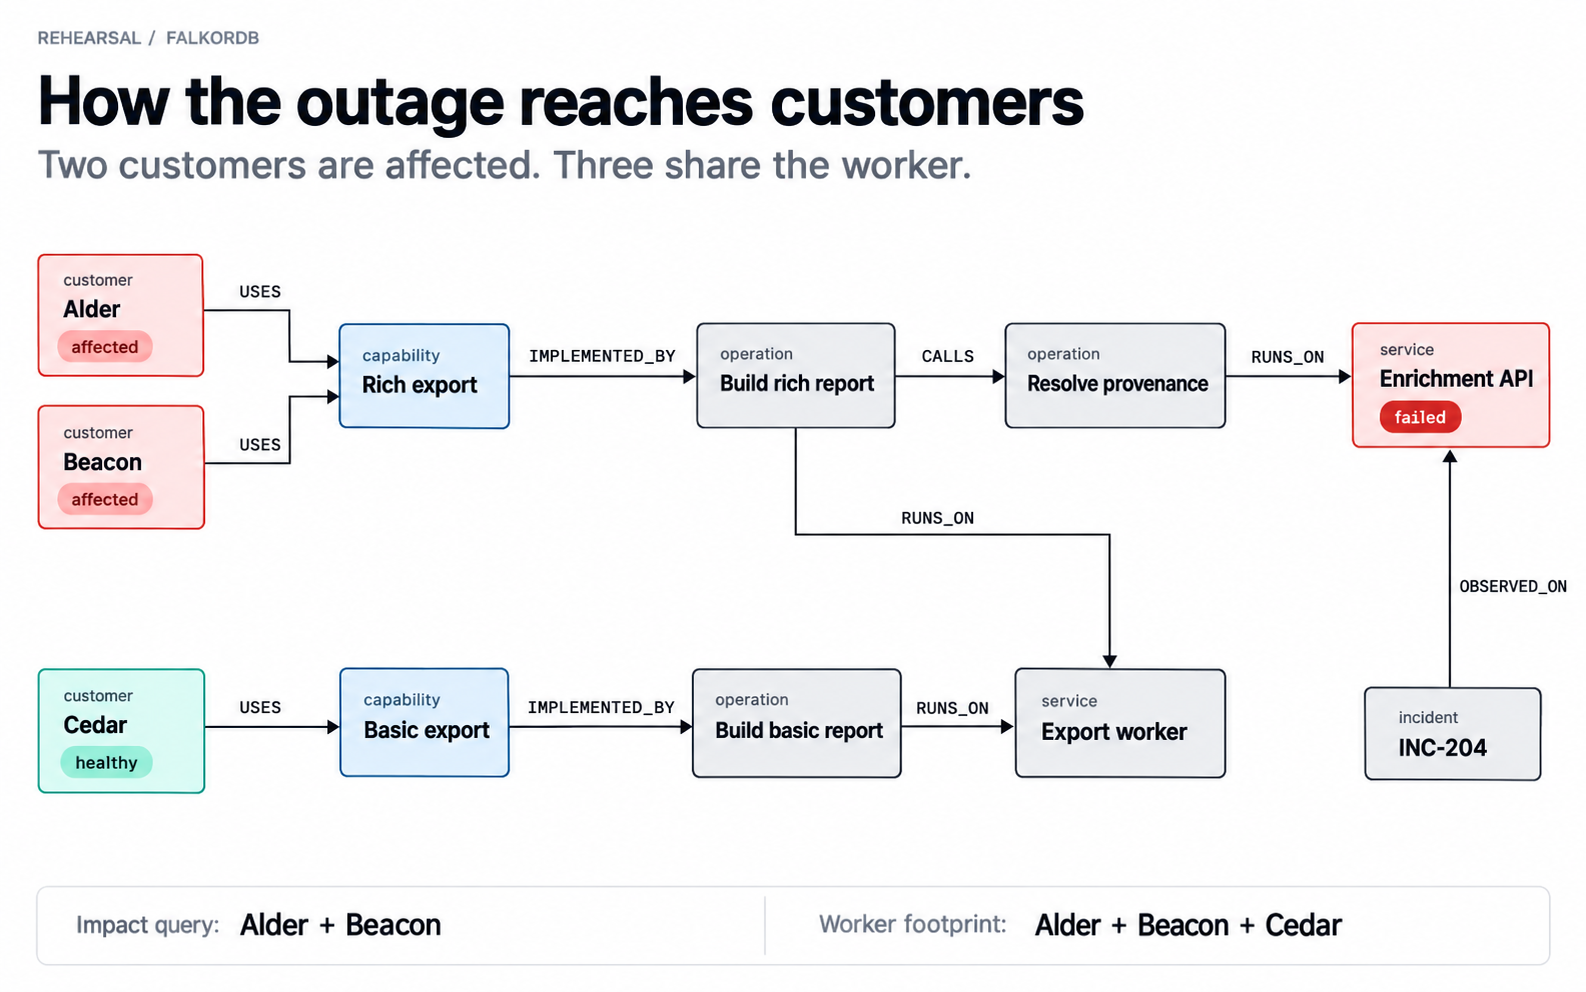
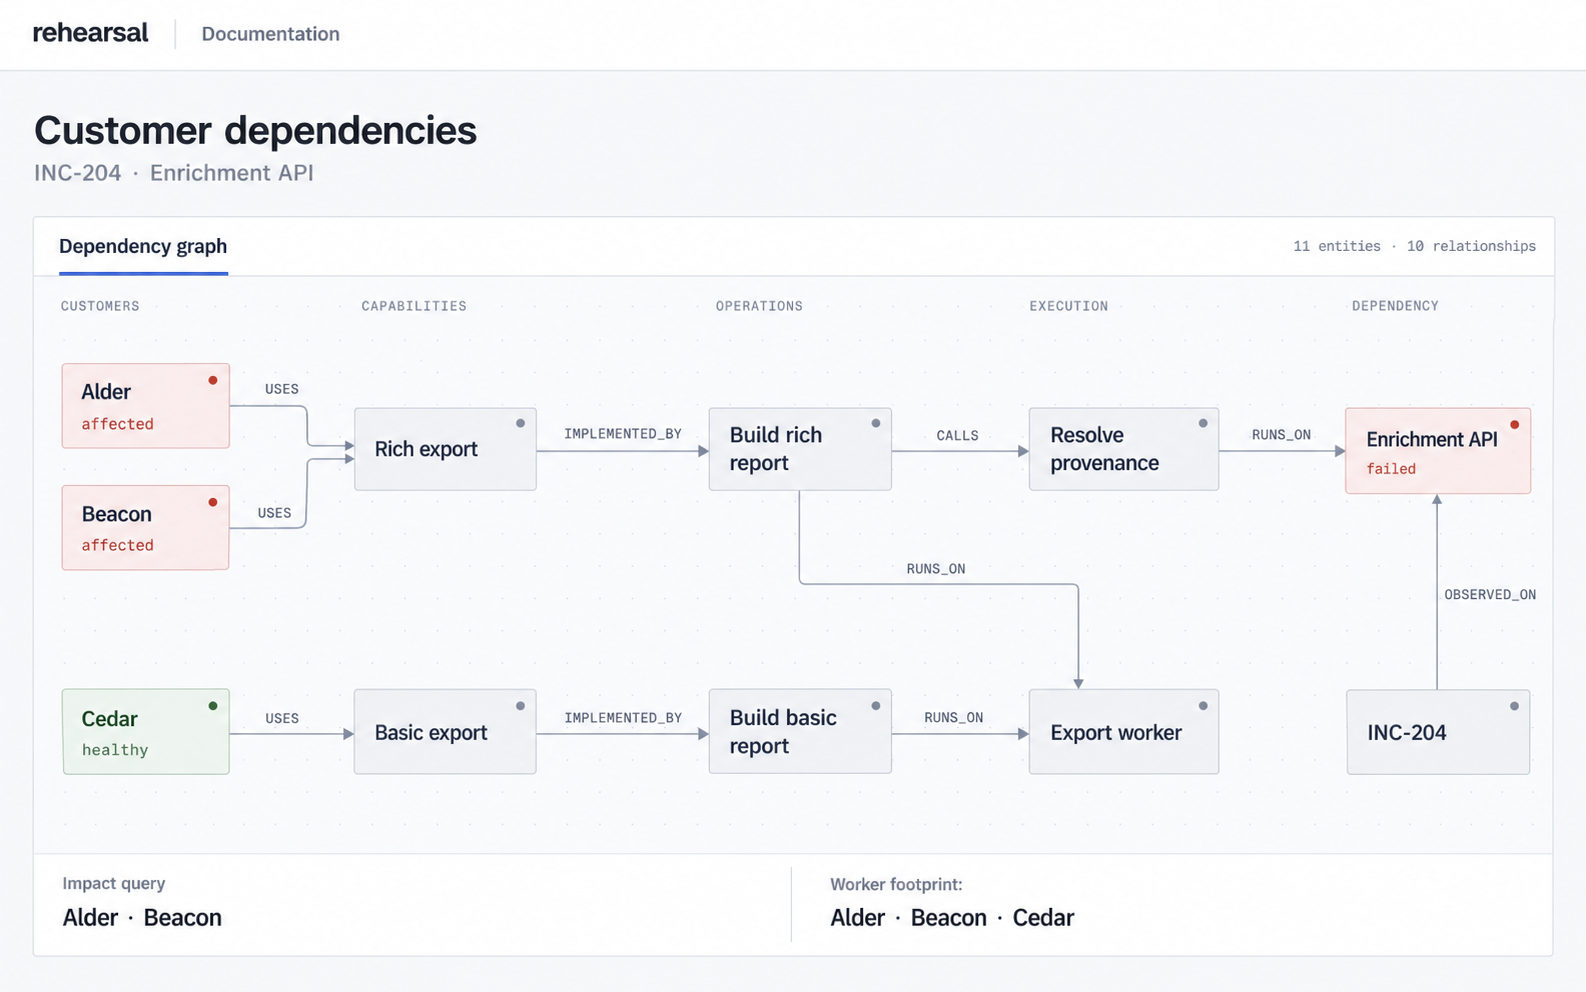
docs: match diagram styling to the app workbench

diff --git a/docs/diagrams/generation-prompts.md b/docs/diagrams/generation-prompts.md
@@ -1,6 +1,6 @@
 # Diagram generation prompts
 
-These README assets were generated with the built-in `image_gen` tool and checked against the implementation. Keep the stored relationship names, arrow directions, and approval gates aligned with the code when regenerating them.
+The README diagrams were restyled with the built-in `image_gen` tool using the [workbench screenshot](../screenshots/workbench.png) as the visual reference. The palette, typography, node treatment, and spacing follow the app's [studio styles](../../web/src/studio.css) and [base styles](../../web/src/styles.css).
 
 | Asset | Source of truth |
 | --- | --- |
@@ -8,154 +8,134 @@ These README assets were generated with the built-in `image_gen` tool and checke
 | [Evidence graph](evidence-graph.png) | [Claim/source creation, revision updates, and decision writes](../../server/graph.py) |
 | [Repair algorithm](repair-algorithm.png) | [Recommendation and approval](../../server/engine.py), [trial checks](../../server/workload.py), and [transactional application](../../server/storage.py) |
 
-The dependency graph shows the incident-related subset of entities. The evidence graph is a schema across source revisions; it does not imply that superseded evidence supplies current facts. The algorithm's candidate outcomes use the initial 720-second cache and 900-second policy fixture; later trials use the current context and clock.
+Each edit supplied the workbench screenshot as image 1 and the previous version of the corresponding diagram as image 2. Those content references are preserved in commit `d535463`. The full prompt for each asset is the shared style brief followed by its asset-specific section below. Outputs were copied into this directory; README image paths remain unchanged.
 
-## Dependency graph
+The dependency graph shows the incident-related subset of entities. The evidence graph is a schema across source revisions; superseded evidence does not supply current facts. The algorithm's candidate outcomes use the initial 720-second cache and 900-second policy fixture. Labels, arrow directions, and approval gates were checked against the implementation.
+
+## Shared style brief
 
 ```text
-Use case: infographic-diagram.
-Asset: an accurate technical diagram embedded in the GitHub README of Rehearsal, an incident-repair simulator. Make a polished, extremely readable editorial engineering diagram, not a marketing poster. Wide landscape canvas about 2400x1500. Pure white background, generous white space, precise thin orthogonal arrow connectors, restrained rounded rectangles, no shadows, no gradients, no texture, no decorative illustrations, no 3D. Near-black large sans-serif type similar to Geist, monospaced relationship labels. Dark navy-blue for graph/context, muted teal for healthy/passing, muted coral for failures, neutral light gray for generic nodes. Body labels must be comfortably readable when displayed at 900px width. Exact spelling and exact arrow endpoints matter more than decoration. Give the heading modest size; spend most of the canvas on the diagram. Each diagram has a tiny top-left "REHEARSAL / FALKORDB" eyebrow. No extra invented text or relationships.
-Title verbatim: "How the outage reaches customers"
-Subtitle verbatim: "Two customers are affected. Three share the worker."
-Draw exactly these eleven entity boxes and ten directed labeled relationships. The arrows are stored graph edges, not an order-of-execution flow. Names must appear exactly; kind labels can be small above the names.
-Nodes:
-Alder (customer, affected), Beacon (customer, affected), Cedar (customer, healthy), Rich export (capability), Basic export (capability), Build rich report (operation), Build basic report (operation), Resolve provenance (operation), Export worker (service), Enrichment API (service, failed), INC-204 (incident).
-Edges, source -> target, exact relationship label:
-Alder -> Rich export: USES
-Beacon -> Rich export: USES
-Cedar -> Basic export: USES
-Rich export -> Build rich report: IMPLEMENTED_BY
-Basic export -> Build basic report: IMPLEMENTED_BY
-Build rich report -> Resolve provenance: CALLS
-Build rich report -> Export worker: RUNS_ON
-Build basic report -> Export worker: RUNS_ON
-Resolve provenance -> Enrichment API: RUNS_ON
-INC-204 -> Enrichment API: OBSERVED_ON
+Use case: style-transfer.
+Task: redesign the supplied documentation diagram so it belongs visually to the Rehearsal web application.
+Input Image 1 is the STRICT VISUAL STYLE REFERENCE: the actual Rehearsal workbench screenshot. Match its refined, understated, crisp, clean software-interface aesthetic.
+Input Image 2 is the CONTENT REFERENCE / EDIT TARGET: the existing diagram. Preserve its technical meaning and exact named relationships, but completely replace its graphic styling. Do NOT preserve the old diagram's typography, huge headline, strong fills, chunky arrows or rounded blocks. The screenshot is the visual authority.
 
-Layout for clarity: five columns. Upper main row Rich export -> Build rich report -> Resolve provenance -> Enrichment API, with Alder and Beacon stacked at the left and each pointing right into Rich export. Lower row Cedar -> Basic export -> Build basic report -> Export worker; INC-204 below Enrichment API, pointing up into that API. The additional Build rich report -> Export worker connector goes down and right through the open gap between rows; keep it distinct from CALLS. Each edge has its own clear arrowhead at the target and its relationship printed once. All rectangles separated with generous gaps for labels. Use coral only for the failed Enrichment API and subtle affected markers on Alder and Beacon; Cedar teal. Worker neutral to show the healthy customer shares it.
-Bottom annotation strip: "Impact query: Alder + Beacon" and "Worker footprint: Alder + Beacon + Cedar".
-Do not add a direct connection from customer to service. Do not add an edge between Export worker and Enrichment API. Retain every one of the ten specified arrows.
+Specific visual system taken from the app CSS:
+- Background #f7f8fa; white #ffffff panel headers; graph canvas #fafbfd.
+- Main ink #22252d; secondary #656a75. Geist-like sans-serif, medium 500 / semibold 600. Use Geist Mono-like typography for relationship names, small indices, values and metadata.
+- Hairline borders #e0e3e8, node borders #d4dae2, connectors #bec7d6. Very thin 1–1.5 px visual strokes with small precise arrow tips.
+- Default graph nodes #f1f3f6 with text #425168. Sharp 2–3 px corners.
+- Error state: muted background #f7edeb, border #dfc8c2, ink #8b4339.
+- Healthy state: muted background #edf3ef, border #c9d8cd, ink #315b44.
+- Blue #3156cf appears only as a tiny active-tab underline or narrow accent rule, never as a large filled panel.
+- Small status dots, quiet monospaced labels. Large flat white panels divided by subtle lines. Extremely faint dotted graph grid like the screenshot, beneath the node region only.
+- NO gradients anywhere, NO glow, NO texture/grain, NO shadows, NO dark filled headers, NO bold blue/red/green banners, NO bright or saturated node fills, NO pill badges, NO giant step numbers, NO marketing-poster type.
+- Compact understated page title, comfortable white space, exact visual alignment. The node labels must be substantially larger than tiny screenshot labels so they read well at 900 px README width: about 24px at 1600px source width; relationship labels about 20–22px.
+- Do not recreate the screenshot's navigation buttons, personal details, sidebar, or JSON output. Create a standalone DOCUMENTATION DIAGRAM styled using the same design system. It must not look like a screenshot claiming to show a real app screen.
+- All text is crisp. All geometry is flat, precise and aligned.
+At the top use a restrained white header strip with a small lowercase "rehearsal" wordmark, a thin divider, and "Documentation" in muted text. Beneath it place the compact diagram title and its one-line subtitle, then the main bordered panel. Headline no larger than twice node-label size. No giant eyebrow or slogan.
 ```
 
-## Evidence graph
+## dependency-graph.png
 
 ```text
-Use case: infographic-diagram.
-Asset: an accurate technical diagram embedded in the GitHub README of Rehearsal, an incident-repair simulator. Make a polished, extremely readable editorial engineering diagram, not a marketing poster. Wide landscape canvas about 2400x1500. Pure white background, generous white space, precise thin orthogonal arrow connectors, restrained rounded rectangles, no shadows, no gradients, no texture, no decorative illustrations, no 3D. Near-black large sans-serif type similar to Geist, monospaced relationship labels. Dark navy-blue for graph/context, muted teal for healthy/passing, muted coral for failures, neutral light gray for generic nodes. Body labels must be comfortably readable when displayed at 900px width. Exact spelling and exact arrow endpoints matter more than decoration. Give the heading modest size; spend most of the canvas on the diagram. Each diagram has a tiny top-left "REHEARSAL / FALKORDB" eyebrow. No extra invented text or relationships.
-Title verbatim: "From reviewed facts to an accountable decision"
-Subtitle verbatim: "Facts retain their sources. Approved repairs retain their evidence."
-Draw a schema diagram with exactly seven nodes, using the exact stored relationship names on directed connectors. Use navy-blue headers on evidence nodes and muted teal on the approved-decision path. Upper evidence row: Claim on left, Source near middle, New source revision on right. Lower decision row: Decision on left, Task in middle-left, Person in middle-right, Team on right. Arrange Source above the gap between Decision and Task so its arrows remain uncrossed. Person and Team are Entity nodes: small secondary labels "Entity · person" and "Entity · team".
-
-Exact nodes, with optional specified smaller detail:
-Claim, detail "subject · predicate · value"
-Source, detail "document / ticket / chat"
-New source revision, detail "Source"
-Decision, detail "approved repair"
-Task, detail "follow-up"
-Person, detail "Entity · person"
-Team, detail "Entity · team"
-
-Exactly six directed edges:
-Claim -> Source, label "SUPPORTED_BY"
-New source revision -> Source, label "SUPERSEDES" (arrow must point LEFT from newer to older Source)
-Decision -> Source, label "CITES" (upward diagonal or orthogonal)
-Decision -> Task, label "CREATED"
-Task -> Person, label "ASSIGNED_TO"
-Person -> Team, label "MEMBER_OF"
-
-Use large clear labels and whitespace. Nothing may obscure arrowheads or overlap relationships.
-Below the graph place two discrete, unconnected explanatory notes, separated by a thin rule from the graph (not nodes and no connectors):
-"Ownership is a claim" with next line 'worker / owner / "nia"' and next line "The subject refers to an entity ID."
-"Context metadata" with next line "Reviewed topology hash + revision" and next line "Validated before approval."
-These are explanations; do not invent an OWNS edge or connect the notes into the graph. This is a schema showing relationships across revisions; do not label Source as active or current.
+Canvas: landscape 1600 × 1000 or similar aspect ratio.
+Title: "Customer dependencies"
+Subtitle: "INC-204 · Enrichment API"
+Panel header: "Dependency graph" with tiny blue active underline; right metadata "11 entities · 10 relationships".
+Preserve all eleven named entity boxes and ALL TEN labeled directed edges from Image 2:
+Alder -> Rich export [USES]
+Beacon -> Rich export [USES]
+Cedar -> Basic export [USES]
+Rich export -> Build rich report [IMPLEMENTED_BY]
+Basic export -> Build basic report [IMPLEMENTED_BY]
+Build rich report -> Resolve provenance [CALLS]
+Build rich report -> Export worker [RUNS_ON]
+Build basic report -> Export worker [RUNS_ON]
+Resolve provenance -> Enrichment API [RUNS_ON]
+INC-204 -> Enrichment API [OBSERVED_ON]
+Keep the readable five-column arrangement from Image 2. Show Alder and Beacon stacked in upper left, sharing Rich export; Cedar lower left through Basic export and Build basic report. Build rich report and Build basic report BOTH point into the shared Export worker. INC-204 beneath Enrichment API points UP into that API. Each arrow points to its exact target, labels sit in clear whitespace.
+Use subtle small column labels like the screenshot: "CUSTOMERS", "CAPABILITIES", "OPERATIONS", "EXECUTION", "DEPENDENCY". These are layout labels, not extra nodes.
+Color Alder, Beacon and Enrichment API with the app's muted failing palette, with tiny dots and small state words "affected", "affected", "failed". Cedar uses muted healthy palette with small state word "healthy". All other nodes neutral gray. No status pills.
+Quiet divided footer strip:
+"Impact query" / "Alder · Beacon"
+"Worker footprint" / "Alder · Beacon · Cedar".
+Wrap long node names onto two balanced lines if needed. Do not sacrifice labels, arrowheads or direction. No direct Export worker→Enrichment API edge. All content must fit with comfortable margins.
 ```
 
-## Repair algorithm — initial composition
+## evidence-graph.png
 
 ```text
-Use case: infographic-diagram.
-Asset: an accurate technical diagram embedded in the GitHub README of Rehearsal, an incident-repair simulator. Make a polished, extremely readable editorial engineering diagram, not a marketing poster. Wide landscape canvas about 2400x1500. Pure white background, generous white space, precise thin orthogonal arrow connectors, restrained rounded rectangles, no shadows, no gradients, no texture, no decorative illustrations, no 3D. Near-black large sans-serif type similar to Geist, monospaced relationship labels. Dark navy-blue for graph/context, muted teal for healthy/passing, muted coral for failures, neutral light gray for generic nodes. Body labels must be comfortably readable when displayed at 900px width. Exact spelling and exact arrow endpoints matter more than decoration. Give the heading modest size; spend most of the canvas on the diagram. Each diagram has a tiny top-left "REHEARSAL / FALKORDB" eyebrow. No extra invented text or relationships.
-Title verbatim: "A repair must earn approval"
-Subtitle verbatim: "Graph facts → isolated trials → owner approval → durable receipt"
-Create an elegant, precise numbered flowchart, about 2000x1800 or a landscape 2400x1900 canvas, readable without magnification. Use large type and a clean vertical main flow, with three equal candidate cards in a horizontal row and a narrow right margin for two stop branches. No decorative icons. Use exact short copy below, don't invent extra words.
-
-1. Blue block "Resolve FalkorDB context"
-   detail "Affected paths · worker footprint · requirements · owner"
-   Arrow down.
-2. Section "Test all three on isolated service copies"
-   Three equal cards in one row, each headed with candidate:
-   "Rollback" / "Schema mismatch" / coral "FAIL"
-   "Bypass" / "HTTP 200; required provenance missing" / coral "FAIL"
-   "Verified cache" / "Data + provenance + freshness preserved" / teal "PASS"
-   A small caption under the row says "Initial fixture: cache age 720 s; policy limit 900 s".
-   All three converge via connectors into:
-3. A gate "Every required check passes?"
-   Directly under it, compact helper text "Availability · data integrity · provenance · schema · unaffected customers · cache policy".
-   Arrow from gate to right labeled "No eligible repair" leading to a coral stop box "Abstain / escalate".
-   Arrow down labeled "Passing repair" goes to:
-4. Blue block "Create a bound proposal"
-   detail "Context + runtime + trial hashes · current owner · 2-minute expiry".
-   Arrow down to:
-5. A distinct navy-outlined gate "Owner approves; server revalidates"
-   detail "Read graph again · rerun selected trial · compare output hashes".
-   Rightward arrow labeled "Stale or failed" to coral stop box "Block; rehearse again".
-   Downward arrow labeled "Valid" to:
-6. Teal block "Apply once + save receipt"
-   detail "Atomic SQLite transaction · retries reuse the receipt".
-   Arrow down to final slim blue block "Sync decision citations + assigned task to FalkorDB"
-   detail "Idempotent graph write; retry if interrupted".
-
-Every dependency must be clear. This is not autonomous deployment: owner approval is mandatory and visibly gates applying the repair. Do not show bypass as passing just because HTTP is 200. The condition is candidate eligibility; at least one must pass, not all three candidates. No arrow from a failure stop box to apply. Give the complex gate labels enough room, no tiny type, no cramped line wraps.
+Canvas: landscape 1600 × 1000 or similar aspect ratio.
+Title: "Evidence and ownership"
+Subtitle: "Reviewed facts, source revisions and approved repairs"
+Panel header: "Evidence graph" with tiny blue active underline; right metadata "7 nodes · 6 relationships".
+Keep the exact seven nodes and six arrows from Image 2, but render EVERY node as a subtle light gray app graph node. No colored header bands. Use normal-sized medium-weight names and smaller muted details within the same flat rectangle:
+Claim / "subject · predicate · value"
+Source / "document / ticket / chat"
+New source revision / "Source"
+Decision / "approved repair"
+Task / "follow-up"
+Person / "Entity · person"
+Team / "Entity · team"
+Exact six directed relationships:
+Claim -> Source [SUPPORTED_BY]
+New source revision -> Source [SUPERSEDES], points LEFT from newer source to older source.
+Decision -> Source [CITES]
+Decision -> Task [CREATED]
+Task -> Person [ASSIGNED_TO]
+Person -> Team [MEMBER_OF]
+Preserve the spacious two-row layout: Claim, Source, New source revision in upper row; Decision, Task, Person, Team in lower row. A clear CITES connector rises from Decision to Source. Gentle curved connector or clean orthogonal routing like the app; arrow tips small, visible, precise. Do not omit or reverse any edge.
+Use only tiny muted green status dots on Decision and Task; keep their node background neutral. No filled green blocks.
+Bottom annotation strip beneath a thin divider, two columns with a subtle vertical rule:
+"Ownership is a claim"
+'worker / owner / "nia"'
+"Subject refers to an entity ID."
+and
+"Context metadata"
+"Reviewed topology hash + revision"
+"Validated before approval."
+These annotations are NOT extra graph nodes. No invented OWNS relationship. Keep Source generic across revisions, do not label it active/current. Typography and spacing must look like the app's output-diff and graph panels.
 ```
 
-## Repair algorithm — final layout edit
-
-The initial algorithm image was supplied as the edit target. This edit produces the committed `repair-algorithm.png`.
+## repair-algorithm.png
 
 ```text
-Use case: infographic-diagram. Edit the supplied Rehearsal workflow diagram to improve readability in a README. Recompose it as a PORTRAIT 3:4 diagram, about 1200 pixels wide by 1600 pixels tall. This is an exact technical workflow, not an illustration. Preserve the white background, navy/blue, teal pass states and coral stop states, simple sans-serif and monospaced details, precise arrows and seven numbered stages. Use flat fills. Make all body text LARGE (at least 24px on a 1200px-wide canvas) and give wrapped lines comfortable leading. Reduce the blank left margin so the main flow occupies about 75% of the image width; reserve 20% on the right for the two stop boxes. Heading modest, two lines if needed.
-
-Exact content, in order:
-Eyebrow: "REHEARSAL / FALKORDB"
-Title: "A repair must earn approval"
-Subtitle: "Graph facts → trials → owner approval → receipt"
-
-1. "Resolve FalkorDB context"
+Canvas: PORTRAIT 1200 × 1440 (5:6), a compact readable technical workflow.
+Title: "Repair verification"
+Subtitle: "Graph context → trials → approval → receipt"
+Panel header: "Execution flow" with tiny blue active underline; right metadata "Owner approval required".
+Retain the seven-step flow and two stop branches from Image 2, but make it look like a refined app activity / verification panel. Narrow muted monospaced stage indices "01"..."07"; never big colored number blocks. Seven aligned flat WHITE rows/blocks with fine gray borders and 2px corners, soft thin gray connectors down the main lane. Right margin for the two small stop boxes. No blue-filled sections. Only the owner-approval row may have a narrow blue 2px left rule. Body text at least 21–23px on 1200px canvas; title around 34px, row headings about 25px. Keep compact readable proportions, fine white gutters.
+Exact content and flow:
+01 "Resolve graph context"
    "Dependencies · requirements · current owner"
-   Down arrow to 2.
-
-2. "Test all three on isolated copies"
-   Three cards across the main-flow width:
-   "Rollback" / "Schema mismatch" / "FAIL"
-   "Bypass" / "Required provenance missing" / "FAIL"
-   "Verified cache" / "Data + provenance preserved" / "PASS"
-   Below cards, caption: "Initial fixture: cache 720 s; policy 900 s".
-   Three arrows converge into 3.
-
-3. Change gate wording to EXACTLY "Any repair passes every check?"
-   Helper: "Data · availability · provenance · schema · cache policy"
-   Right arrow labeled "None" to coral terminal "Abstain / escalate".
-   Down arrow labeled "Passing repair" to 4.
-   Meaning: every check must pass for a candidate; we need at least one eligible candidate, NOT all three candidates to pass.
-
-4. "Create a bound proposal"
+   Down arrow to 02.
+02 "Rehearse all three repairs"
+   Render a compact TABLE, like the app verification panel, with three divided rows, NOT three oversized cards:
+   "Rollback" | "Schema mismatch" | "Fail"
+   "Bypass" | "Required provenance missing" | "Fail"
+   "Verified cache" | "Data + provenance preserved" | "Pass"
+   Fail appears as a small muted rust dot plus text. Pass appears as a small muted green dot plus text. The table is white/very faint gray, NO saturated filled status banners.
+   Small footer within this stage: "Initial fixture: cache 720 s · policy 900 s"
+   Down arrow to 03.
+03 "Any repair passes every check?"
+   "Data · availability · provenance · schema · cache policy"
+   Right arrow labeled "None" to small very pale rust terminal "Abstain / escalate".
+   Down arrow labeled "Passing repair" to 04.
+04 "Create a bound proposal"
    "Context + runtime + trial hashes"
    "Current owner · expires in 2 minutes"
-   Down arrow to 5.
-
-5. "Owner approves; server revalidates"
+   Down arrow to 05.
+05 "Owner approves; server revalidates"
    "Reread graph · rerun trial · compare outputs"
-   Right arrow labeled "Stale / failed" to coral terminal "Block; rehearse again".
-   Down arrow labeled "Valid" to 6.
-
-6. "Apply once + save receipt"
+   Right arrow labeled "Stale / failed" to small very pale rust terminal "Block; rehearse again".
+   Down arrow labeled "Valid" to 06.
+06 "Apply once + save receipt"
    "Atomic SQLite transaction"
    "Retries reuse the receipt"
-   Down arrow to 7.
-
-7. "Sync evidence to FalkorDB"
+   Down arrow to 07.
+07 "Sync evidence to FalkorDB"
    "Decision citations + assigned follow-up"
    "Idempotent write; retry if interrupted"
-
-Do not omit a stage, misdirect an arrow, or let text overlap. Neither failure branch may connect to application of a repair. Keep each failure box aligned to its actual gate. The two-minute bound and human owner gate must be prominent. All seven stages must fit within the image without clipping. Preserve the original meaning while replacing text with the exact concise copy above.
+No failure terminal connects to application. Approval must gate applying a change. Preserve the conditional branch semantics. Give all short lines room; allow two-line wrap where needed instead of shrinking text. At the bottom a quiet slim status strip: "FalkorDB context · isolated HTTP trials · durable receipt".
 ```
